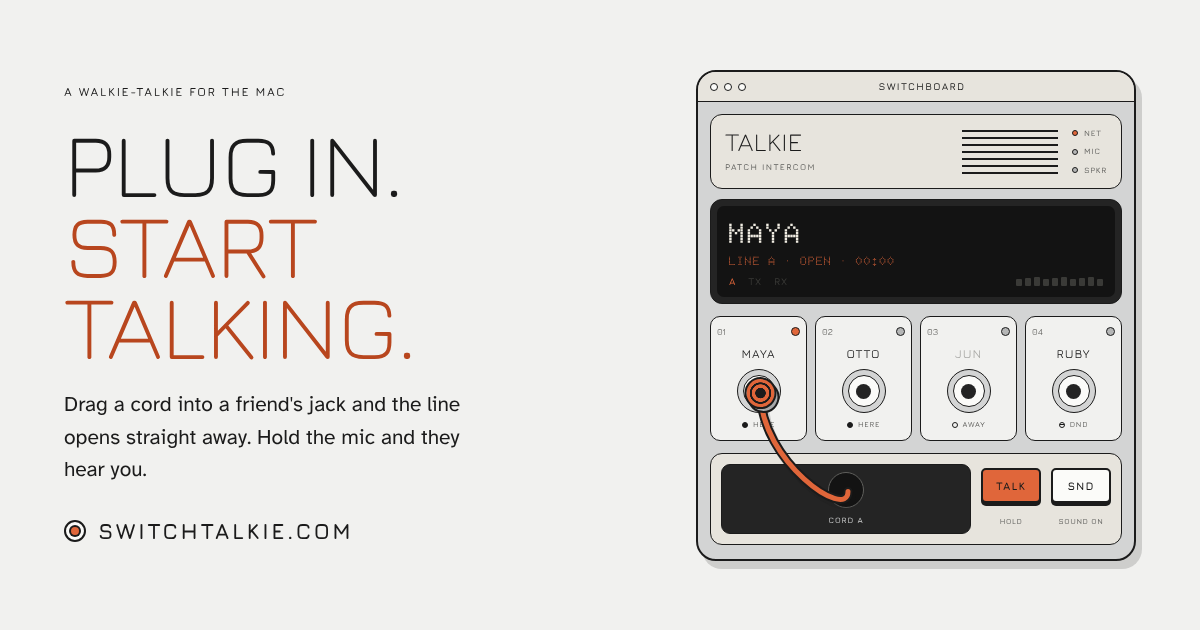
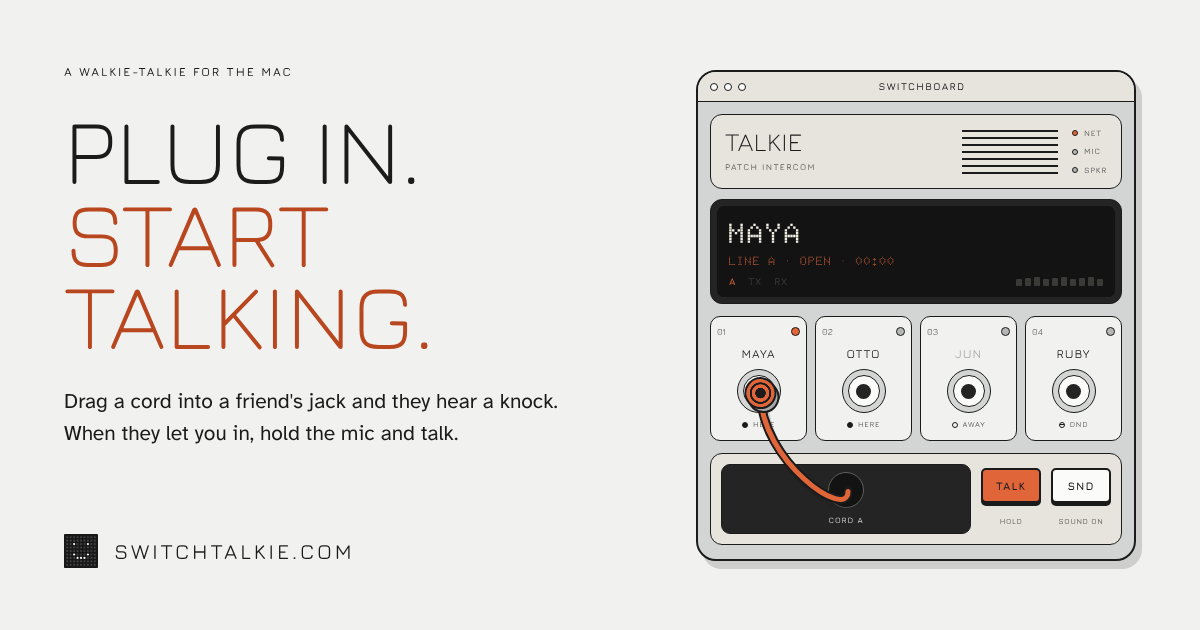
Real meters, a cord that stays put, no gap above the mic, new link preview
- The board's meter and the mic's level lights show real levels: your
  microphone (after your voice effect) and the people on the call, through
  LiveKit. On the practice board your own level comes from the microphone
  while you hold to talk; practice friends stay simulated. The loudness scale
  is shared with the Settings meter (TalkieCore Loudness, tested).
- With several displays, macOS moves the Talkie icon to whichever menu bar
  you're using, and the mic's cord followed it across screens. While the mic
  is out its cord now stays on the screen it dropped from; while it's put
  away the overlay follows you, so it drops where you are.
- With nobody on the line there's no name tag, and the cord stopped short of
  the mic. It now runs all the way down.
- New link preview for switchtalkie.com: the smiley and the knock, from
  design/og/og.html (scripts/og.mjs renders it).

Claude-Session: https://claude.ai/code/session_01SHqghfkwU9rCTsdxShgQnq

diff --git a/design/og/og.html b/design/og/og.html
@@ -1,0 +1,28 @@
+<!doctype html>
+<!-- The link preview for switchtalkie.com (site/og.png, 1200 x 630). Rendered with Chromium:
+     node scripts/og.mjs. The switchboard on the right is board.png. -->
+<html lang="en">
+<meta charset="utf-8">
+<link href="https://fonts.googleapis.com/css2?family=Atkinson+Hyperlegible:wght@400;700&family=Jura:wght@300;400;500;600&display=block" rel="stylesheet">
+<style>
+  html, body { margin: 0; width: 1200px; height: 630px; overflow: hidden; background: #f1f1ef; color: #1b1b1b; }
+  .left { position: absolute; left: 64px; top: 66px; width: 560px; }
+  .kicker { font: 600 12px/1 "Jura", sans-serif; letter-spacing: .16em; text-transform: uppercase; }
+  h1 { margin: 30px 0 0; font: 300 94px/.88 "Jura", sans-serif; letter-spacing: .01em; text-transform: uppercase; }
+  h1 span { display: block; color: #b8461e; }
+  p { margin: 30px 0 0; font: 400 21px/1.5 "Atkinson Hyperlegible", sans-serif; max-width: 500px; }
+  .site { position: absolute; left: 64px; bottom: 62px; display: flex; align-items: center; gap: 16px;
+          font: 500 21px/1 "Jura", sans-serif; letter-spacing: .14em; text-transform: uppercase; }
+  .site svg { width: 34px; height: 34px; }
+  .board { position: absolute; right: 0; top: 0; width: 560px; height: 630px; }
+</style>
+<body>
+  <div class="left">
+    <div class="kicker">A walkie-talkie for the Mac</div>
+    <h1>Plug in.<span>Start talking.</span></h1>
+    <p>Drag a cord into a friend's jack and they hear a knock. When they let you in, hold the mic and talk.</p>
+  </div>
+  <div class="site"><svg viewBox="0 0 512 512" aria-hidden="true"><rect width="512" height="512" rx="12" fill="#181818"/><g fill="#414141"><circle cx="48" cy="48" r="16"/><circle cx="100" cy="48" r="16"/><circle cx="152" cy="48" r="16"/><circle cx="204" cy="48" r="16"/><circle cx="256" cy="48" r="16"/><circle cx="308" cy="48" r="16"/><circle cx="360" cy="48" r="16"/><circle cx="412" cy="48" r="16"/><circle cx="464" cy="48" r="16"/><circle cx="48" cy="100" r="16"/><circle cx="100" cy="100" r="16"/><circle cx="152" cy="100" r="16"/><circle cx="204" cy="100" r="16"/><circle cx="256" cy="100" r="16"/><circle cx="308" cy="100" r="16"/><circle cx="360" cy="100" r="16"/><circle cx="412" cy="100" r="16"/><circle cx="464" cy="100" r="16"/><circle cx="48" cy="152" r="16"/><circle cx="100" cy="152" r="16"/><circle cx="204" cy="152" r="16"/><circle cx="256" cy="152" r="16"/><circle cx="308" cy="152" r="16"/><circle cx="412" cy="152" r="16"/><circle cx="464" cy="152" r="16"/><circle cx="48" cy="204" r="16"/><circle cx="100" cy="204" r="16"/><circle cx="152" cy="204" r="16"/><circle cx="204" cy="204" r="16"/><circle cx="256" cy="204" r="16"/><circle cx="308" cy="204" r="16"/><circle cx="360" cy="204" r="16"/><circle cx="412" cy="204" r="16"/><circle cx="464" cy="204" r="16"/><circle cx="48" cy="256" r="16"/><circle cx="100" cy="256" r="16"/><circle cx="152" cy="256" r="16"/><circle cx="204" cy="256" r="16"/><circle cx="256" cy="256" r="16"/><circle cx="308" cy="256" r="16"/><circle cx="360" cy="256" r="16"/><circle cx="412" cy="256" r="16"/><circle cx="464" cy="256" r="16"/><circle cx="48" cy="308" r="16"/><circle cx="100" cy="308" r="16"/><circle cx="204" cy="308" r="16"/><circle cx="256" cy="308" r="16"/><circle cx="308" cy="308" r="16"/><circle cx="412" cy="308" r="16"/><circle cx="464" cy="308" r="16"/><circle cx="48" cy="360" r="16"/><circle cx="100" cy="360" r="16"/><circle cx="152" cy="360" r="16"/><circle cx="360" cy="360" r="16"/><circle cx="412" cy="360" r="16"/><circle cx="464" cy="360" r="16"/><circle cx="48" cy="412" r="16"/><circle cx="100" cy="412" r="16"/><circle cx="152" cy="412" r="16"/><circle cx="204" cy="412" r="16"/><circle cx="256" cy="412" r="16"/><circle cx="308" cy="412" r="16"/><circle cx="360" cy="412" r="16"/><circle cx="412" cy="412" r="16"/><circle cx="464" cy="412" r="16"/><circle cx="48" cy="464" r="16"/><circle cx="100" cy="464" r="16"/><circle cx="152" cy="464" r="16"/><circle cx="204" cy="464" r="16"/><circle cx="256" cy="464" r="16"/><circle cx="308" cy="464" r="16"/><circle cx="360" cy="464" r="16"/><circle cx="412" cy="464" r="16"/><circle cx="464" cy="464" r="16"/></g><g fill="#FBFBF9"><circle cx="152" cy="152" r="16"/><circle cx="360" cy="152" r="16"/><circle cx="152" cy="308" r="16"/><circle cx="360" cy="308" r="16"/><circle cx="204" cy="360" r="16"/><circle cx="256" cy="360" r="16"/><circle cx="308" cy="360" r="16"/></g></svg>switchtalkie.com</div>
+  <img class="board" src="board.png" alt="">
+</body>
+</html>

diff --git a/Sources/Talkie/MicOverlay.swift b/Sources/Talkie/MicOverlay.swift
@@ -75,13 +75,24 @@ final class MicOverlay {
     func install() {
         rebuild()
         NotificationCenter.default.addObserver(forName: NSApplication.didChangeScreenParametersNotification, object: nil, queue: .main) { [weak self] _ in
-            MainActor.assumeIsolated { self?.rebuild() }
+            MainActor.assumeIsolated {
+                guard let self else { return }
+                // Displays changed: a mic that's out stays on its screen if that screen is still there.
+                let current = self.screen.flatMap { s in NSScreen.screens.first { Self.id($0) == Self.id(s) } }
+                self.rebuild(on: self.model.mic.mode == .hidden ? nil : current)
+            }
         }
     }
 
-    private func rebuild() {
+    /// Displays are told apart by their number; NSScreen objects come and go.
+    private static func id(_ screen: NSScreen) -> NSNumber? {
+        screen.deviceDescription[NSDeviceDescriptionKey("NSScreenNumber")] as? NSNumber
+    }
+
+    /// Puts the overlay on a screen: the one asked for, or the one whose menu bar has the Talkie icon.
+    private func rebuild(on target: NSScreen? = nil) {
         panel?.orderOut(nil)
-        guard let screen = statusButton?.window?.screen ?? NSScreen.main ?? NSScreen.screens.first else { return }
+        guard let screen = target ?? statusButton?.window?.screen ?? NSScreen.main ?? NSScreen.screens.first else { return }
         self.screen = screen
         let p = OverlayPanel(screen: screen)
         let container = NSView(frame: NSRect(origin: .zero, size: screen.frame.size))
@@ -102,8 +113,16 @@ final class MicOverlay {
     }
 
     /// Where the menu bar ends and where the Talkie icon sits, in the overlay's top-left coordinates.
+    ///
+    /// With a menu bar on every display, macOS moves the Talkie icon to whichever one you're using.
+    /// While the mic is out, its cord stays on the screen it dropped from; while it's put away, the
+    /// overlay follows you, so the next drop comes down where you are.
     private func updateGeometry() {
         guard let screen else { return }
+        if let iconScreen = statusButton?.window?.screen, Self.id(iconScreen) != Self.id(screen) {
+            if model.mic.mode == .hidden { rebuild(on: iconScreen) }
+            return
+        }
         let menuBar = max(screen.frame.maxY - screen.visibleFrame.maxY, 24)
         let bounds = CGRect(x: 0, y: menuBar, width: screen.frame.width, height: screen.frame.height - menuBar)
         if bounds != model.overlayBounds { model.overlayBounds = bounds }

diff --git a/Sources/Talkie/BoardModel.swift b/Sources/Talkie/BoardModel.swift
@@ -53,6 +53,8 @@ final class BoardModel {
     let sound = SoundBoard()
     /// The Settings window's input meter.
     @ObservationIgnored let inputLevel = InputLevel()
+    /// Your microphone while you hold to talk on the practice board (calls are measured through LiveKit).
+    @ObservationIgnored private let talkLevel = InputLevel()
     @ObservationIgnored var onFrame: (() -> Void)?
     /// The mic's settings key was pressed, at this point in the overlay.
     @ObservationIgnored var onMicMenu: ((CGPoint) -> Void)?
@@ -214,8 +216,16 @@ final class BoardModel {
 
         stepCords()
 
-        let mine = board.talking ? simulatedVoice(t, seed: 0) : 0
-        let theirs = board.flags.rx ? simulatedVoice(t, seed: 3.1) : 0
+        // Real levels: your microphone, and the people on the call. Practice friends are simulated,
+        // so their voices are too.
+        let mine: Double, theirs: Double
+        if let line = online?.line, line.isOpen {
+            mine = line.micLevel
+            theirs = line.heardLevel
+        } else {
+            mine = board.talking ? talkLevel.level : 0
+            theirs = practice && board.flags.rx ? simulatedVoice(t, seed: 3.1) : 0
+        }
         micLevel = eased(micLevel, toward: mine)
         friendLevel = eased(friendLevel, toward: theirs)
         let m = max(micLevel, friendLevel)
@@ -541,10 +551,13 @@ final class BoardModel {
         if board.openJacks.isEmpty, let jack = board.knockers.first { letIn(jack) }
         if !mic.isVisible || mic.mode == .retracting { dropMic() }
         apply { $0.startTalking(now: now) }
+        // Off a real call, the meter listens to your microphone only while you hold to talk.
+        if online?.line.isOpen != true { talkLevel.start(deviceUID: defaults.string(forKey: "inputDeviceUID")) }
     }
 
     func stopTalking() {
         apply { $0.stopTalking(now: now) }
+        talkLevel.stop()
     }
 
     func cycleEffect() { apply { $0.cycleEffect(now: now) } }

diff --git a/Sources/Talkie/Online/Line.swift b/Sources/Talkie/Online/Line.swift
@@ -59,8 +59,22 @@ final class Line {
     private var talking = false
     /// People you muted for yourself.
     private var muted: Set<UUID> = []
+    /// Real levels for the meters: your microphone, and everyone you hear.
+    private let mine = LevelMeter()
+    private let heard = LevelMeter()
+    private var metering = false
 
     var isOpen: Bool { room != nil }
+
+    /// How loud you are right now, on the board's meter scale. Silent while you aren't talking.
+    var micLevel: Double { room != nil && talking ? mine.level : 0 }
+
+    /// How loud the people on the call are, as you hear them (people you muted don't count).
+    var heardLevel: Double {
+        guard let room else { return 0 }
+        let everyone = room.remoteParticipants.values.compactMap { $0.identity.flatMap { UUID(uuidString: $0.stringValue) } }
+        return everyone.allSatisfy(muted.contains) ? 0 : heard.level
+    }
 
     /// Everyone else in the room.
     var members: [Member] {
@@ -92,6 +106,11 @@ final class Line {
         // Your voice effect goes on the microphone before it's sent, from the microphone you picked.
         VoiceEffects.shared.install()
         useChosenDevices()
+        if !metering {
+            metering = true
+            AudioManager.shared.add(localAudioRenderer: mine)
+            AudioManager.shared.add(remoteAudioRenderer: heard)
+        }
         let room = Room(delegate: delegate)
         self.room = room
         self.delegate = delegate

diff --git a/Sources/Talkie/Online/LevelMeter.swift b/Sources/Talkie/Online/LevelMeter.swift
@@ -1,0 +1,35 @@
+import AVFoundation
+import LiveKit
+import TalkieCore
+
+/// How loud the audio passing through LiveKit is: your microphone (after your voice effect) or
+/// everyone you're hearing. LiveKit calls it on its audio threads; the board reads it each frame.
+final class LevelMeter: NSObject, AudioRenderer, @unchecked Sendable {
+    private let lock = NSLock()
+    private var value: Double = 0
+    private var heardAt = Date.distantPast
+
+    /// 0...1 on the board's meter scale. Falls to nothing when the audio stops coming.
+    var level: Double {
+        lock.lock()
+        defer { lock.unlock() }
+        return Date().timeIntervalSince(heardAt) < 0.25 ? value : 0
+    }
+
+    func render(pcmBuffer: AVAudioPCMBuffer) {
+        let count = Int(pcmBuffer.frameLength)
+        var loudest: Float = 0
+        for c in 0..<Int(pcmBuffer.format.channelCount) {
+            if let floats = pcmBuffer.floatChannelData {
+                loudest = max(loudest, Loudness.rms(UnsafeBufferPointer(start: floats[c], count: count)))
+            } else if let ints = pcmBuffer.int16ChannelData {
+                loudest = max(loudest, Loudness.rms(UnsafeBufferPointer(start: ints[c], count: count)))
+            }
+        }
+        let reading = Loudness.meter(rms: loudest)
+        lock.lock()
+        value = reading
+        heardAt = Date()
+        lock.unlock()
+    }
+}

diff --git a/Sources/Talkie/AudioSettings.swift b/Sources/Talkie/AudioSettings.swift
@@ -3,6 +3,7 @@ import AVFoundation
 import AudioToolbox
 import CoreAudio
 import Observation
+import TalkieCore
 
 /// A microphone or speaker the Mac knows about.
 struct AudioDevice: Identifiable, Hashable {
@@ -160,16 +161,11 @@ final class InputLevel {
             var loudest: Float = 0
             var signal = false
             for c in 0..<Int(buffer.format.channelCount) {
-                var sum: Float = 0
-                for i in 0..<count {
-                    let x = channels[c][i]
-                    sum += x * x
-                    if x != 0 { signal = true }
-                }
-                loudest = max(loudest, (sum / Float(max(count, 1))).squareRoot())
+                let samples = UnsafeBufferPointer(start: channels[c], count: count)
+                if !signal, samples.contains(where: { $0 != 0 }) { signal = true }
+                loudest = max(loudest, Loudness.rms(samples))
             }
-            let decibels = 20 * log10(max(loudest, 0.000_01))
-            let value = Double(min(max((decibels + 55) / 50, 0), 1))
+            let value = Loudness.meter(rms: loudest)
             Task { @MainActor in self?.heard(value, signal: signal) }
         }
         do {

diff --git a/Sources/TalkieCore/Loudness.swift b/Sources/TalkieCore/Loudness.swift
@@ -1,0 +1,29 @@
+import Foundation
+
+/// How loud some audio is, as a meter reading from 0 (silence, below -55 dB) to 1 (-5 dB and up).
+/// The same scale everywhere: the board's meter, the mic's lights and the Settings meter.
+public enum Loudness {
+    /// Root mean square of some samples (full scale is 1).
+    public static func rms(_ samples: UnsafeBufferPointer<Float>) -> Float {
+        guard !samples.isEmpty else { return 0 }
+        var sum: Float = 0
+        for x in samples { sum += x * x }
+        return (sum / Float(samples.count)).squareRoot()
+    }
+
+    /// The same for 16-bit samples.
+    public static func rms(_ samples: UnsafeBufferPointer<Int16>) -> Float {
+        guard !samples.isEmpty else { return 0 }
+        var sum: Float = 0
+        for s in samples {
+            let x = Float(s) / 32768
+            sum += x * x
+        }
+        return (sum / Float(samples.count)).squareRoot()
+    }
+
+    public static func meter(rms: Float) -> Double {
+        let decibels = 20 * log10(max(Double(rms), 0.000_01))
+        return min(max((decibels + 55) / 50, 0), 1)
+    }
+}

diff --git a/Tests/TalkieCoreTests/LoudnessTests.swift b/Tests/TalkieCoreTests/LoudnessTests.swift
@@ -1,0 +1,20 @@
+import XCTest
+@testable import TalkieCore
+
+final class LoudnessTests: XCTestCase {
+    func testTheMeterRunsFromQuietToLoud() {
+        XCTAssertEqual(Loudness.meter(rms: 0), 0)
+        XCTAssertEqual(Loudness.meter(rms: 1), 1)
+        // -25 dB, an ordinary speaking level, sits in the middle.
+        XCTAssertEqual(Loudness.meter(rms: Float(pow(10.0, -25.0 / 20))), 0.6, accuracy: 0.001)
+    }
+
+    func testFloatAndSixteenBitAgree() {
+        let floats: [Float] = (0..<480).map { 0.3 * sin(Float($0) / 10) }
+        let ints: [Int16] = floats.map { Int16($0 * 32768) }
+        let a = floats.withUnsafeBufferPointer(Loudness.rms)
+        let b = ints.withUnsafeBufferPointer(Loudness.rms)
+        XCTAssertEqual(a, b, accuracy: 0.001)
+        XCTAssertEqual(a, Float(0.3 / 2.0.squareRoot()), accuracy: 0.01)
+    }
+}

diff --git a/Sources/Talkie/MicArt.swift b/Sources/Talkie/MicArt.swift
@@ -83,9 +83,10 @@ enum MicArt {
             ctx.draw(Text(text).font(Fonts.jura(size, weight)).tracking(size * 0.06).foregroundStyle(color), at: p, anchor: anchor)
         }
 
-        // The cord between the name tag and the body.
+        // The cord between the name tag and the body. With nobody on the line there's no tag, so
+        // the cord runs all the way up to where the coil from the menu bar joins.
         var stub = Path()
-        stub.move(to: CGPoint(x: 66, y: 79))
+        stub.move(to: CGPoint(x: 66, y: s.tag.isEmpty ? cordExit.y : 79))
         stub.addLine(to: CGPoint(x: 66, y: 92))
         ctx.stroke(stub, with: .color(ink), style: StrokeStyle(lineWidth: 5, lineCap: .round))
         ctx.stroke(stub, with: .color(Palette.lampOff), style: StrokeStyle(lineWidth: 2.5, lineCap: .round))
